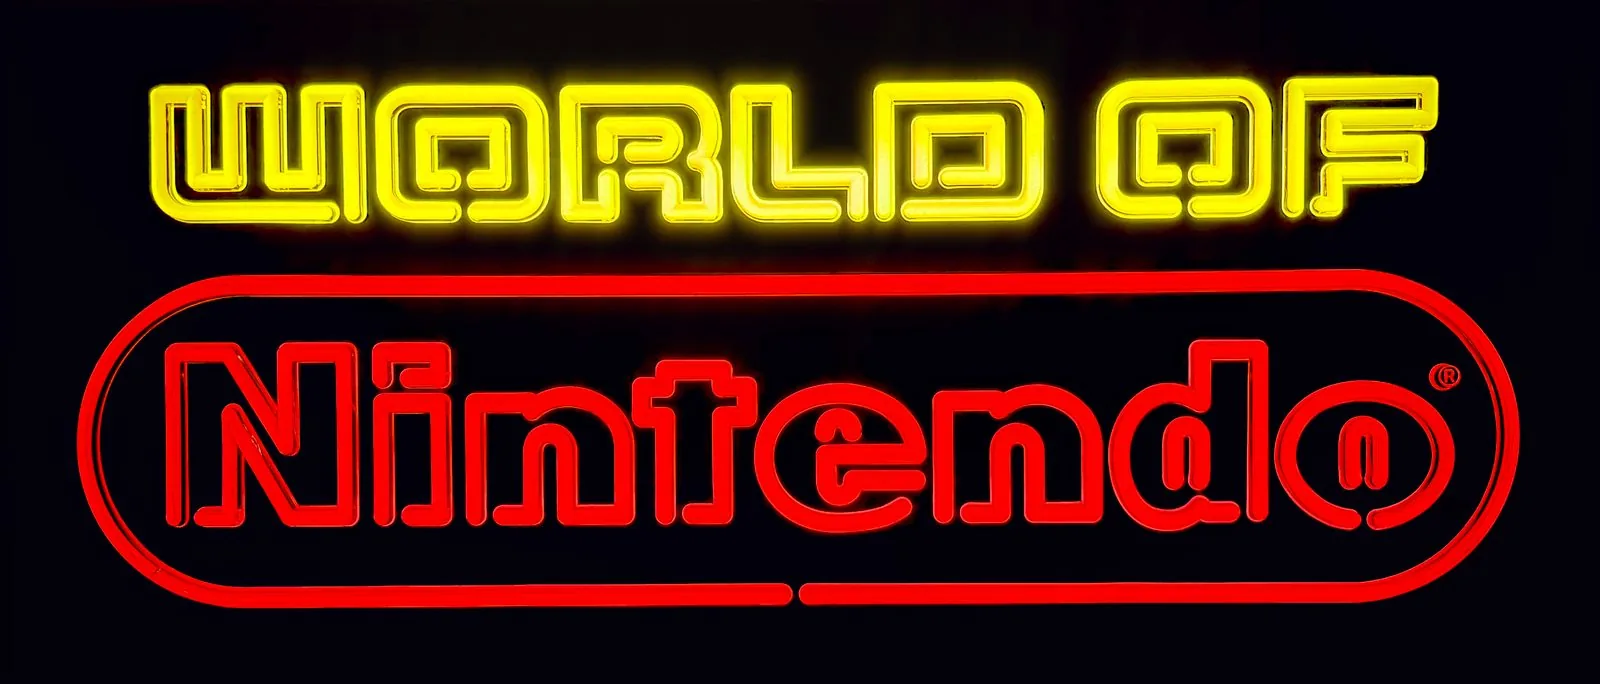
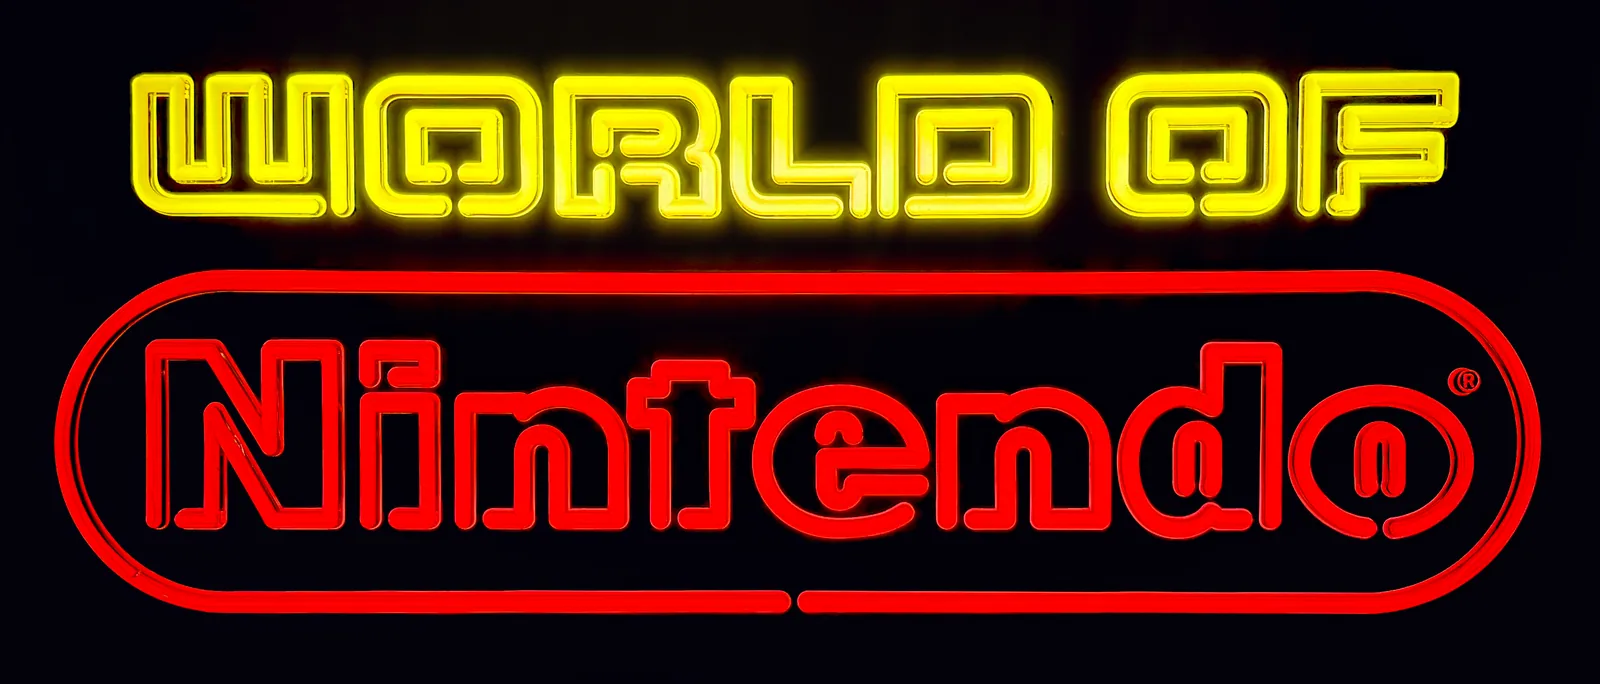
Level the Superbrite sign photo (rotated 0.32 deg clockwise from the master); ?v=2 on its signage.html refs
Claude-Session: https://claude.ai/code/session_01FND4wXV4zxAbbJ8ADwobMH

diff --git a/signage.html b/signage.html
@@ -186,7 +186,7 @@
     </article>
 
     <article class="signshow" id="sign-superbrite">
-      <figure class="shot"><img src="media/2026/sign-superbrite-v2.webp" srcset="media/thumbs/sign-superbrite-v2.webp 800w, media/2026/sign-superbrite-v2.webp 1600w" sizes="(max-width:1200px) calc(100vw - 40px), 1160px" data-full="media/2026/sign-superbrite-v2.webp" alt="World of Nintendo Superbrite sign lit head on, yellow World of over the red Nintendo oval" loading="lazy" width="1600" height="684" decoding="async"><figcaption><b>The Superbrite</b> — fluorescent, straight on, no glare</figcaption></figure>
+      <figure class="shot"><img src="media/2026/sign-superbrite-v2.webp?v=2" srcset="media/thumbs/sign-superbrite-v2.webp?v=2 800w, media/2026/sign-superbrite-v2.webp?v=2 1600w" sizes="(max-width:1200px) calc(100vw - 40px), 1160px" data-full="media/2026/sign-superbrite-v2.webp?v=2" alt="World of Nintendo Superbrite sign lit head on, yellow World of over the red Nintendo oval" loading="lazy" width="1600" height="684" decoding="async"><figcaption><b>The Superbrite</b> — fluorescent, straight on, no glare</figcaption></figure>
       <div class="sub">Fluorescent &middot; Superbrite series</div>
       <h3>World of Nintendo Superbrite</h3>
       <div class="specs">
